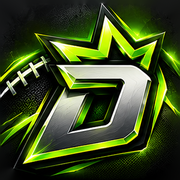
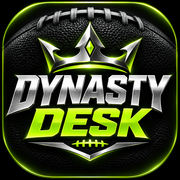
Add files via upload

diff --git a/dynasty-desk/public/index.html b/dynasty-desk/public/index.html
@@ -7,9 +7,9 @@
 <meta name="apple-mobile-web-app-status-bar-style" content="black-translucent">
 <meta name="apple-mobile-web-app-title" content="Dynasty Desk">
 <meta name="mobile-web-app-capable" content="yes">
-<link rel="manifest" href="/manifest.webmanifest?v=33">
-<link rel="apple-touch-icon" href="/apple-touch-icon.png?v=33">
-<link rel="icon" type="image/png" href="/icon-192.png?v=33">
+<link rel="manifest" href="/manifest.webmanifest?v=38">
+<link rel="apple-touch-icon" href="/apple-touch-icon.png?v=38">
+<link rel="icon" type="image/png" href="/icon-192.png?v=38">
 <meta name="theme-color" content="#0A0B0D">
 <meta name="color-scheme" content="dark">
 <title>Dynasty Desk</title>
@@ -648,7 +648,7 @@ body.has-bar .toast{bottom:calc(176px + env(safe-area-inset-bottom,0px))}
 <div class="wrap">
   <header class="top" id="top">
     <h1 class="vh">Dynasty Desk</h1>
-    <img class="mark" src="/icon-192.png?v=33" alt="" width="38" height="38" decoding="async">
+    <img class="mark" src="/mark.png?v=37" alt="" width="38" height="38" decoding="async">
     <nav class="lgs" role="tablist" id="tabs" aria-label="Leagues"></nav>
   </header>
 
@@ -734,7 +734,7 @@ let curWeek=store.get("dd-curwk"),wkWant=null,wkPending=null,wkOpen=false,loadSe
 const nowWeek=()=>curWeek||week;
 const isPast=()=>week!=null&&weekKind(week,nowWeek())==="past";
 // Version of this page. The server sends its own version, so a mismatch means one file wasn't uploaded.
-const APP_VERSION="v37";
+const APP_VERSION="v38";
 let srvVer=null,pinWeak=false;
 // For a couple of minutes after you change something on MFL, reads skip the server's short cache.
 let freshUntil=0;
